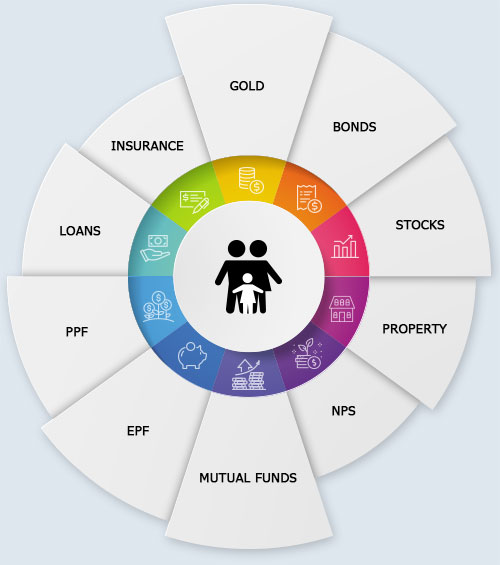
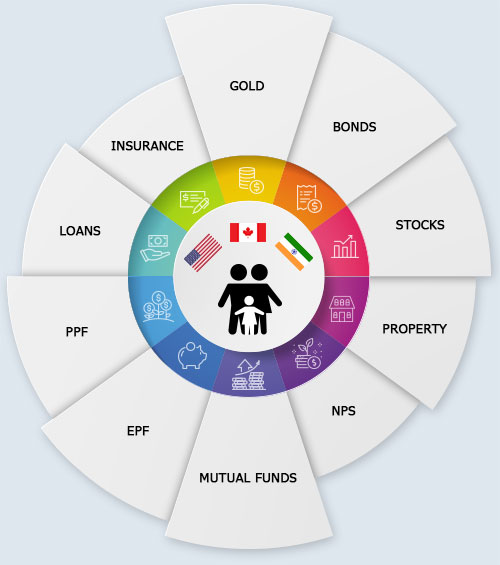
Updated about page and added flags in kickstart image

Changed region(s): [[0.36, 0.3912, 0.63, 0.6018]]

diff --git a/src/components/about/About.tsx b/src/components/about/About.tsx
@@ -1,8 +1,9 @@
 import React from "react";
 import { Row, Col, Image } from "antd";
+import Card from "./Card";
 import Content from "../Content";
 
-import "./about.less";
+import "./About.less";
 
 export default function Home() {
 	return (
@@ -30,6 +31,36 @@ export default function Home() {
 				with desktop publishing software like Aldus PageMaker including versions
 				of Lorem Ipsum.
 			</p>
+
+			<Row
+				align="middle"
+				gutter={[
+					{ xs: 0, sm: 15, md: 30, lg: 50 },
+					{ xs: 15, sm: 15, md: 30, lg: 50 },
+				]}
+			>
+				<Col xs={24} md={8}>
+					<Card
+						title="How"
+						description="With a digital-first, no-nonsense approach. No branches or tiresome paperwork"
+						imageUrl="images/about-how.jpg"
+					/>
+				</Col>
+				<Col xs={24} md={8}>
+					<Card
+						title="Why"
+						description="To help people get better with their money"
+						imageUrl="images/about-why.jpg"
+					/>
+				</Col>
+				<Col xs={24} md={8}>
+					<Card
+						title="What"
+						description="Through a platform where privacy &amp; security area priority"
+						imageUrl="images/about-what.jpg"
+					/>
+				</Col>
+			</Row>
 
 			<Row className="banner" align="middle">
 				<Col xs={24} md={13}>

diff --git a/src/components/about/Card.less b/src/components/about/Card.less
@@ -1,0 +1,21 @@
+.about-card {
+	min-height: 370px;
+	background: #fff;
+	box-shadow: 0 10px 16px rgba(0, 0, 0, 0.1);
+	border-top-left-radius: 1000px;
+	border-top-right-radius: 1000px;
+	border-bottom-left-radius: 60px;
+	border-bottom-right-radius: 60px;
+	margin: 40px 0;
+
+	& h3,
+	p {
+		padding: 0 18px;
+	}
+
+	& h3 {
+		color: @primary-color;
+		font-size: 24px;
+		font-weight: bold;
+	}
+}

diff --git a/src/components/about/Card.tsx b/src/components/about/Card.tsx
@@ -1,0 +1,14 @@
+import React from "react";
+import { Image } from "antd";
+
+import "./Card.less";
+
+export default function Card({ title, description, imageUrl }) {
+	return (
+		<div className="about-card">
+			<Image preview={false} src={imageUrl} />
+			<h3>{title}</h3>
+			<p>{description}</p>
+		</div>
+	);
+}
